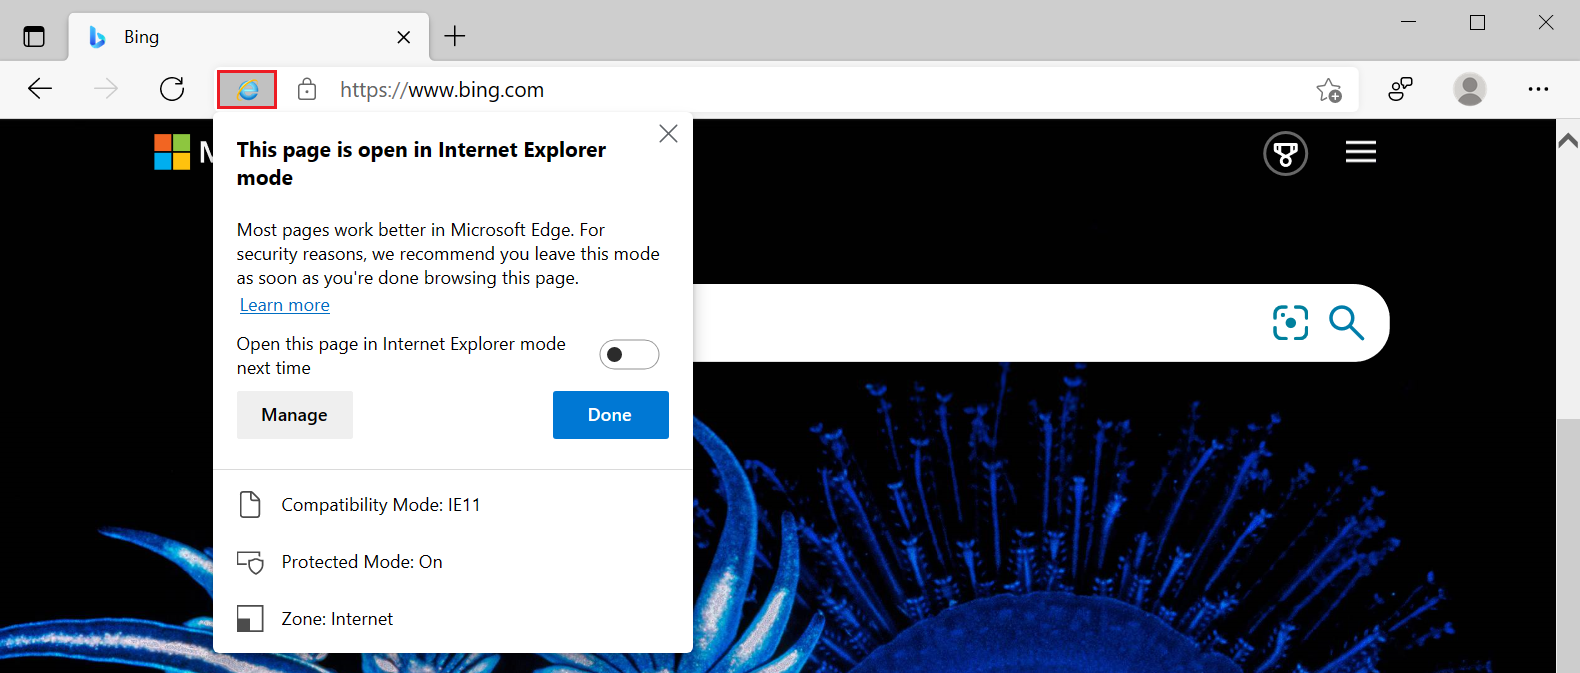
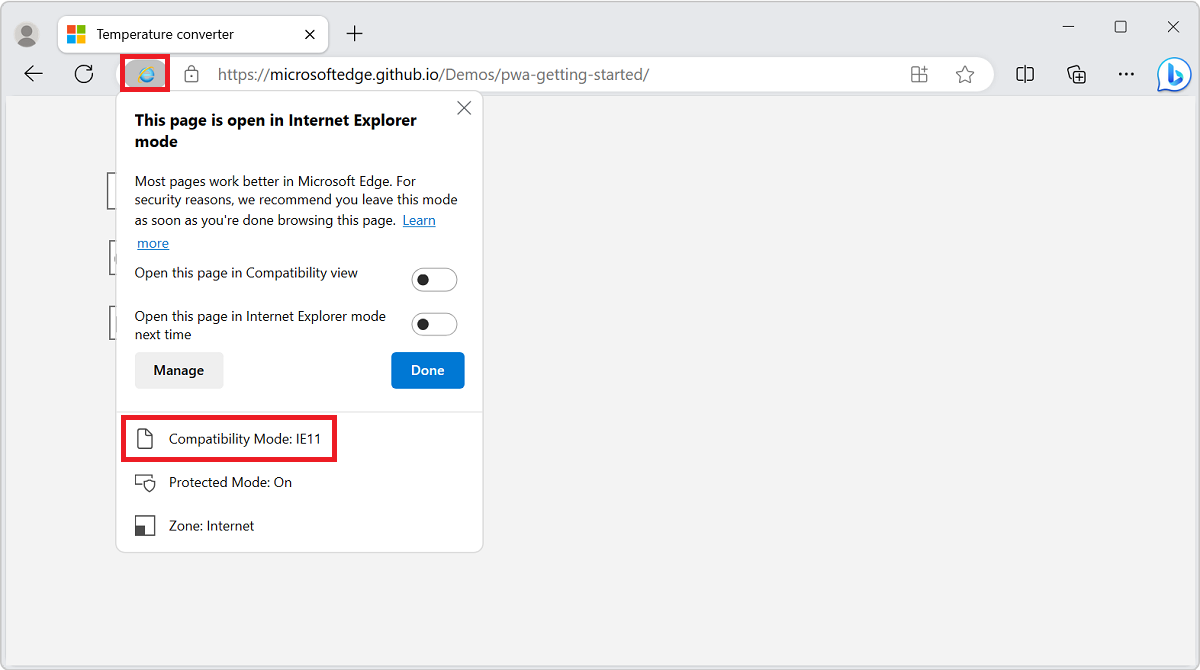
New IE Mode screenshots

diff --git a/microsoft-edge/devtools-guide-chromium/ie-mode/index.md b/microsoft-edge/devtools-guide-chromium/ie-mode/index.md
@@ -28,23 +28,21 @@ IE mode is available on Windows 10 Version 1903 (May 2019 Update), and is coming
 <!-- ====================================================================== -->
 ## Open DevTools on a tab in IE mode
 
-The IE mode indicator icon appears in the address bar if the Enterprise admin has configured the website to appear in IE mode.  To view the document mode of a website in IE mode, select the IE mode indicator icon in the address bar.
+The IE mode indicator icon appears in the address bar if the Enterprise admin has configured the website to appear in IE mode.  To view the compatibility mode of a website in IE mode, click the IE mode indicator icon in the address bar:
 
 ![View document mode using the IE mode indicator icon](./index-images/ie-mode-badge-doc-mode.png)
 
 If a tab uses IE mode, the tab has the following limitations:
 
-*  Some DevTools panels don't work, such as **Network** and **Performance**, because the rendering engine switches from Chromium to Internet Explorer 11.
-
 *  **Inspect Element** isn't visible on the right-click menu.
 
 *  Right-clicking and then selecting **View Source** launches Notepad.
 
-*  Pressing **F12** or **Ctrl+Shift+I** opens a blank instance of the Microsoft Edge DevTools and displays the following message: **Developer Tools aren't available in Internet Explorer mode.  To debug the page, open it in Internet Explorer 11.**
+*  Pressing **F12** or **Ctrl+Shift+I** opens a blank instance of the Microsoft Edge DevTools and displays the following message: **Developer Tools are not available in Internet Explorer mode.  To debug the page, open the page in IEChoose.**
 
 ![DevTools launched in IE mode](./index-images/ie-mode-devtools.png)
 
-If Internet Explorer isn't available on your computer, to debug the content of an IE mode tab, use IEChooser to open Internet Explorer DevTools, as follows:
+To debug the content of an IE mode tab, use IEChooser to open Internet Explorer DevTools, as follows:
 
 1. In Windows, open the **Run** dialog.  For example, press the `Windows logo key` + `R`.
 
